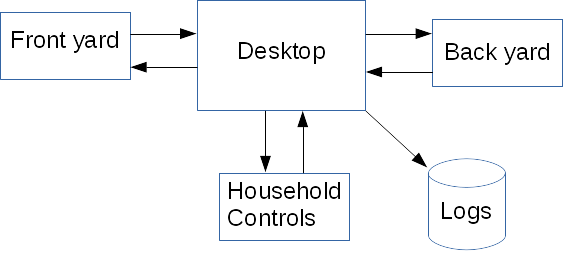
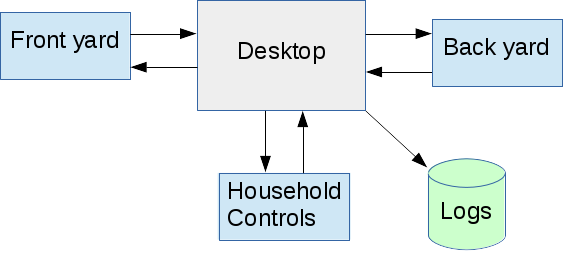
Added color to tutorial graphics. Renamed misspelled filename.

diff --git a/easy_py_messaging/docs/easyMessagingBlog.html b/easy_py_messaging/docs/easyMessagingBlog.html
@@ -5,178 +5,80 @@
         <title>Easy Raspberry Pi Messaging</title>
     </head>
 
-    <h1>Easy Py Messaging Messaging</h1>
+    <h1>Easy Py Messaging</h1>
 
-    <p>The advent of inexpensive but powerful single
-    board computers such as Raspberry Pi, Arduino
-    and others opens the possibly of connecting
-    many of these boards to perform tasks cheaply
-    and conveniently.</p>
+    <p>The advent of inexpensive but powerful single board computers such as Raspberry Pi, Arduino and others opens the possibly of connecting many of these boards to perform tasks cheaply and conveniently.</p>
 
-    <p>Traditionally clusters and grids of computers
-    were relegated to tasks such as  big data,
-    heavy science applications and web services.
-    While clusters and grids of these boards
-    certainly has an appeal, the "normal"
-    Maker can use networked boards as an
-    everyday convenience.</p>
+    <p>Traditionally clusters and grids of computers were relegated to tasks such as  big data, heavy science applications and web services.  While clusters and grids of these boards certainly has an appeal, the "normal" Maker can use networked boards as an everyday convenience.</p>
 
-    <p>Applications around the house that include
-    such mundane tasks as lighting controls, yard
-    monitoring, security concerns, media servers,
-    and more could be connected together to create
-    an easier interface for monitoring and control.</p>
+    <p>Applications around the house that include such mundane tasks as lighting controls, yard monitoring, security concerns, media servers, and more could be connected together to create an easier interface for monitoring and control.</p>
 
     <h2>Does it make sense for your system?</h2>
 
-    <p>Using two or more of these boards suggests
-    that they could communicate. These boards can
-    use wifi to eliminate wiring problems. Wifi
-    USB plugins creates these possiblities. Does
-    it make sense to connect lighting controls with
-    gardening monitors? Perhaps or perhaps not.<p>
+    <p>Using two or more of these boards suggests that they could communicate. These boards can use wifi to eliminate wiring problems. Wifi USB plugins creates these possiblities. Does it make sense to connect lighting controls with gardening monitors? Perhaps or perhaps not.<p>
 
-    <p>Suppose these systems had a central connection
-    such as a desktop or even to another single board
-    computer that collected information on all
-    your boards? How would that help? What about
-    a central repository collecting logs of
-    events in one location?</p>
+    <p>Suppose these systems had a central connection such as a desktop or even to another single board computer that collected information on all your boards? How would that help? What about a central repository collecting logs of events in one location?</p>
 
-    <p>A possible home system:<br/><center><img src="./blog.png"/>
-    </center></p>
+    <p>A possible home system:<br/><center><img src="./easyMessagingBlog.png"/></center></p>
 
-    <p>But you respond, "Networking can be
-    tricky and cumbersome." True, but only if you
-    are not using proper tools. Working with raw
-    sockets is indeed tricky and troublesome.
-    And many of the existing networking packages
-    such as AMQ provide heavy-weight solutions
-    that take lots of time to assimilate.</p>
+    <p>But you respond, "Networking can be tricky and cumbersome." True, but only if you are not using proper tools. Working with raw sockets is indeed tricky and troublesome.  And many of the existing networking packages such as AMQ provide heavy-weight solutions that take lots of time to assimilate.</p>
 
-    <p>Most of us program in python on the boards.
-    Why? Because python allows for simpler solutions.
-    Python has many other reasons for its use.
-    It should be no surprise that easy networking
-    tools are one of these.</p>
+    <p>Most of us program in python on the boards.  Why? Because python allows for simpler solutions.  Python has many other reasons for its use.  It should be no surprise that easy networking tools are one of these.</p> 
 
-    <p>The newly released <a href="https://github.com/TrailingDots/easy_py_messaging.git">
-        Easy Py Messaging</a> provides a comfortable
-    networking solutions to common problems.
-    The target audience of noobies on single board
-    computers should attract the interest of
-    Makers everywhere.</p>
+    <p>The newly released <a href="https://github.com/TrailingDots/easy_py_messaging.git"> Easy Py Messaging</a> provides a comfortable networking solutions to common problems.  The target audience of noobies on single board computers should attract the interest of Makers everywhere.</p>
 
     <p>Specifically, this toolbox provides:</p>
 
     <ul>
 
-        <li>Messaging between different processes whether
-        on the same hardware board or on a remote board.</li>
+        <li>Messaging between different processes whether on the same hardware board or on a remote board.</li>
 
         <li>An incredible logging system.</li>
 
-        <li>Command line utilities that interface
-        with bash scripting. You can now control your apps from bash.</li>
+        <li>Command line utilities that interface with bash scripting. You can now control your apps from bash.</li>
 
-        <li>Comprehensive documentation: "If you can't
-        explain your product to a customer, you
-        don't have a product."</li>
+        <li>Comprehensive documentation: "If you can't explain your product to a customer, you don't have a product."</li>
 
-        <li>A great tutorial. This starts off by
-        running demonstrating that using these
-        tools can take only a few lines of code.</li>
+        <li>A great tutorial. This starts off by running demonstrating that using these tools can take only a few lines of code.</li>
 
-        <li>More extensive examples. Implementing
-        code into real-life programs is not the
-        same as toy demos. Using these tools in
-        <i>your</i> code eases the learning curve
-        associated with new software packages.</li>
+        <li>More extensive examples. Implementing code into real-life programs is not the same as toy demos. Using these tools in <i>your</i> code eases the learning curve associated with new software packages.</li>
 
-        <li>Did I say coded in python? More adventurous
-        Makers have code to examine and possibly hack.</li>
+        <li>Did I say coded in python? More adventurous Makers have code to examine and possibly hack.</li>
 
-        <li>Based on the industry standard for lightning
-        fast messaging: <a href="http://zeromq.org/">ZeroMQ</a>.
-        ZeroMQ provides an intelligent transport layer
-        for your distributeds apps. On my desktop I can get
-        70,000 messages/second; on my Raspberry Pi
-        the same code yields 12,800 messages/second.</li>
+        <li>Based on the industry standard for lightning fast messaging: <a href="http://zeromq.org/">ZeroMQ</a>.  ZeroMQ provides an intelligent transport layer for your distributeds apps. On my desktop I can get 70,000 messages/second; on my Raspberry Pi the same code yields 12,800 messages/second.</li>
 
     </ul>
 
     <h1>The need for client/server</h1>
 
-    <p>In messaging systems one end gets named the
-    server and the other end the client. As an abstract
-    definition, a client relies on a server to provide
-    a resource. More concretely, a client needs information
-    such as a temperature. The server has that temperature
-    reading installed as a peripheral device and sends that
-    reading to the client.</p>
+    <p>In messaging systems one end gets named the server and the other end the client. As an abstract definition, a client relies on a server to provide a resource. More concretely, a client needs information such as a temperature. The server has that temperature reading installed as a peripheral device and sends that reading to the client.</p>
 
-    <p>Servers may manage a wide variety of resources:
-    media such as tunes, external peripherals such as
-    printers, logging files, tons of Raspberry Pi 
-    instrumentation, etc.</p>
+    <p>Servers may manage a wide variety of resources: media such as tunes, external peripherals such as printers, logging files, tons of Raspberry Pi instrumentation, etc.</p>
 
-    <p>Clients send request to the server for
-    use of its resources.</p>
+    <p>Clients send request to the server for use of its resources.</p>
 
-    <p>A single hardware board may exist both as
-    a client and as a server. A raspbian system
-    in your backyard may, as a client, send
-    logs to a central logger. It may, as a server,
-    provide the various reading of connected instrumentation.</p>
+    <p>A single hardware board may exist both as a client and as a server. A raspbian system in your backyard may, as a client, send logs to a central logger. It may, as a server, provide the various reading of connected instrumentation.</p>
 
     <h1>Synchronous Messaging - "Wait for me!"</h1>
 
-    <p>The <a href="https://github.com/TrailingDots/easy_py_messaging.git"> Easy Py Messaging</a> toolbox uses
-    synchronous messaging.</p>
+    <p>The <a href="https://github.com/TrailingDots/easy_py_messaging.git"> Easy Py Messaging</a> toolbox uses synchronous messaging.</p>
 
-    <p>Synchronous messages describe communications
-    between two places where the sender places a
-    message in the sending queue and then waits for
-    a response from the receiver.</p>
+    <p>Synchronous messages describe communications between two places where the sender places a message in the sending queue and then waits for a response from the receiver.</p>
 
-    <p>The sender waits until the receiver responds.
-    Then, and only then, does the send continue
-    processing. The sender and receiver thus
-    work in lockstep: one waits for the other.</p>
+    <p>The sender waits until the receiver responds.  Then, and only then, does the send continue processing. The sender and receiver thus work in lockstep: one waits for the other.</p>
 
 
-    <p>Ease of programming is the <i>major</i> 
-    advantage to sending and receiving messages in lockstep.
-    Writing code with messages in lockstep uses
-    the existing thought patterns of most noobies
-    and intermediate developers. Sending and receiving
-    a message looks similar to calling a routine.</p>
+    <p>Ease of programming is the <i>major</i> advantage to sending and receiving messages in lockstep.  Writing code with messages in lockstep uses the existing thought patterns of most noobies and intermediate developers. Sending and receiving a message looks similar to calling a routine.</p>
 
     <h2>A Note on Asynchronous Messaging</h2>
 
-    <p>Asynchronous messaging can becomes considerably more convoluted than
-    synchronous messaging.  When a message gets placed into a queue, the
-    messaging library returns immediately and the application code
-    continues to execute.  Later, the executing code checks for a response
-    to the message. Sending and receiving become "disconnected".</p>
+    <p>Asynchronous messaging can becomes considerably more convoluted than synchronous messaging.  When a message gets placed into a queue, the messaging library returns immediately and the application code continues to execute.  Later, the executing code checks for a response to the message. Sending and receiving become "disconnected".</p>
     
-    <p>By sending the message and then continuing,
-    the application has the freedom to perform other
-    tasks. <i>BUT</i> it must check on the message
-    response and know how to process that response
-    in the context of the original message.</p>
+    <p>By sending the message and then continuing, the application has the freedom to perform other tasks. <i>BUT</i> it must check on the message response and know how to process that response in the context of the original message.</p>
 
-    <p>By not waiting, asynchronous messaging provides
-    a more responsive system at the expense
-    of added complexity. A web page is a common example
-    of asynchronous code. While a user interacts with the
-    page, behind the scenes the browser may load
-    various files, scripts, etc.</p>
+    <p>By not waiting, asynchronous messaging provides a more responsive system at the expense of added complexity. A web page is a common example of asynchronous code. While a user interacts with the page, behind the scenes the browser may load various files, scripts, etc.</p>
 
-    <p>The general handling of asynchronous code
-    complexity is beyond the scope of the
-    Easy Py Messaging toolbox. (Perhaps later if
-    enough requests?)</p>
+    <p>The general handling of asynchronous code complexity is beyond the scope of the Easy Py Messaging toolbox. (Perhaps later if enough requests?)</p>
 
     <h1>Examples of Code</h1>
 
@@ -200,36 +102,19 @@ if __name__ == "__main__":
         server.join(1)
 </pre>
 
-    <p>The server class gets imported to provide the
-    necessary API.</p>
+    <p>The server class gets imported to provide the necessary API.</p>
 
-    <p>A configuration dictionary <code>config</code>
-    defines a few keywords that configure the underlying
-    server code. "<code>noisy</code>" tells the
-    server to echo input and responses. This aids
-    in visualizing the process of the server
-    transactions.</p>
+    <p>A configuration dictionary <code>config</code> defines a few keywords that configure the underlying server code. "<code>noisy</code>" tells the server to echo input and responses. This aids in visualizing the process of the server transactions.</p>
 
-    <p>The interesting setting of "<code>in_fcn</code>"
-    pass a function to the server. This function,
-    <code>handle_request()</code>,
-    processes the input message into an output response.
-    This response gets send back to the calling client.</p>
+    <p>The interesting setting of "<code>in_fcn</code>" pass a function to the server. This function, <code>handle_request()</code>, processes the input message into an output response. This response gets send back to the calling client.</p>
 
-    <p>In this simple demo, the string <code>"_resp"</code>
-    gets appended to the input. This modified string
-    become the response that the client receives from
-    the server.</p>
+    <p>In this simple demo, the string <code>"_resp"</code> gets appended to the input. This modified string become the response that the client receives from the server.</p>
 
-    <p>In a real application, <code>handle_request()</code>
-    would contain more reasonable logic. <code>handle_request()</code>
-    could read value, start/stop flows, start/stop an arbitrary
-    number of events.</p>
+    <p>In a real application, <code>handle_request()</code> would contain more reasonable logic. <code>handle_request()</code> could read value, start/stop flows, start/stop an arbitrary number of events.</p>
 
     <h2>A Simple Client</h2>
 
-    <p>To access the above server as a client, use the following code for
-    the client.</p>
+    <p>To access the above server as a client, use the following code for the client.</p>
 
     <p>client_create_nano.py</p>
 
@@ -244,38 +129,27 @@ print 'Response: "%s"\n' % response
 client.join()
     </pre>
 
-    <p>The client sends a preset message to the server.
-    The server returns the processed message in <code>response</code>.
+    <p>The client sends a preset message to the server.  The server returns the processed message in <code>response</code>.
 
-    <p>To run these examples, save the above client and 
-    server code in the same directory. Now, open
-    two terminal windows and <code>cd</code> to the
-    directory with the code. </p>
+    <p>To run these examples, save the above client and server code in the same directory. Now, open two terminal windows and <code>cd</code> to the directory with the code. </p>
     
     <p>In one window, start the server: <code>python server_create_nano.py</code></p>
 
     <p>In the other window, start the client: <code>python  client_create_nano.py</code></p>
 
-    <p>The server window will display both input and
-    response.<p>
+    <p>The server window will display both input and response.<p>
 
     <p>The client window will display similar messages.</p>
 
     <p>Congratulations, you have just send messages!</p>
 
-    <p>That's 8 lines for the client and 9 lines for the server.
-    Pretty slick, right?</p>
+    <p>That's 8 lines for the client and 9 lines for the server.  Pretty slick, right?</p>
 
     <h1>Links</h1>
 
-    <p><a href="http://zeromq.org/">ZeroMQ</a>: A lightweight,
-    very fast messaging system. This package uses only a small
-    portion of the potential of ZeroMQ. But notice what powerful
-    results arise from this toolkit.</p>
+    <p><a href="http://zeromq.org/">ZeroMQ</a>: A lightweight, very fast messaging system. This package uses only a small portion of the potential of ZeroMQ. But notice what powerful results arise from this toolkit.</p>
 
-    <p><a href="https://github.com/TrailingDots/easy_py_messaging.git"> Easy Py Messaging</a>: An easy to use toolbox developed for noobies and
-    intermediate developers desiring to communicate using single
-    board computers such as Raspberry Pi and Arduino.</p>
+    <p><a href="https://github.com/TrailingDots/easy_py_messaging.git"> Easy Py Messaging</a>: An easy to use toolbox developed for noobies and intermediate developers desiring to communicate using single board computers such as Raspberry Pi and Arduino.</p>
 
     </body>
 
